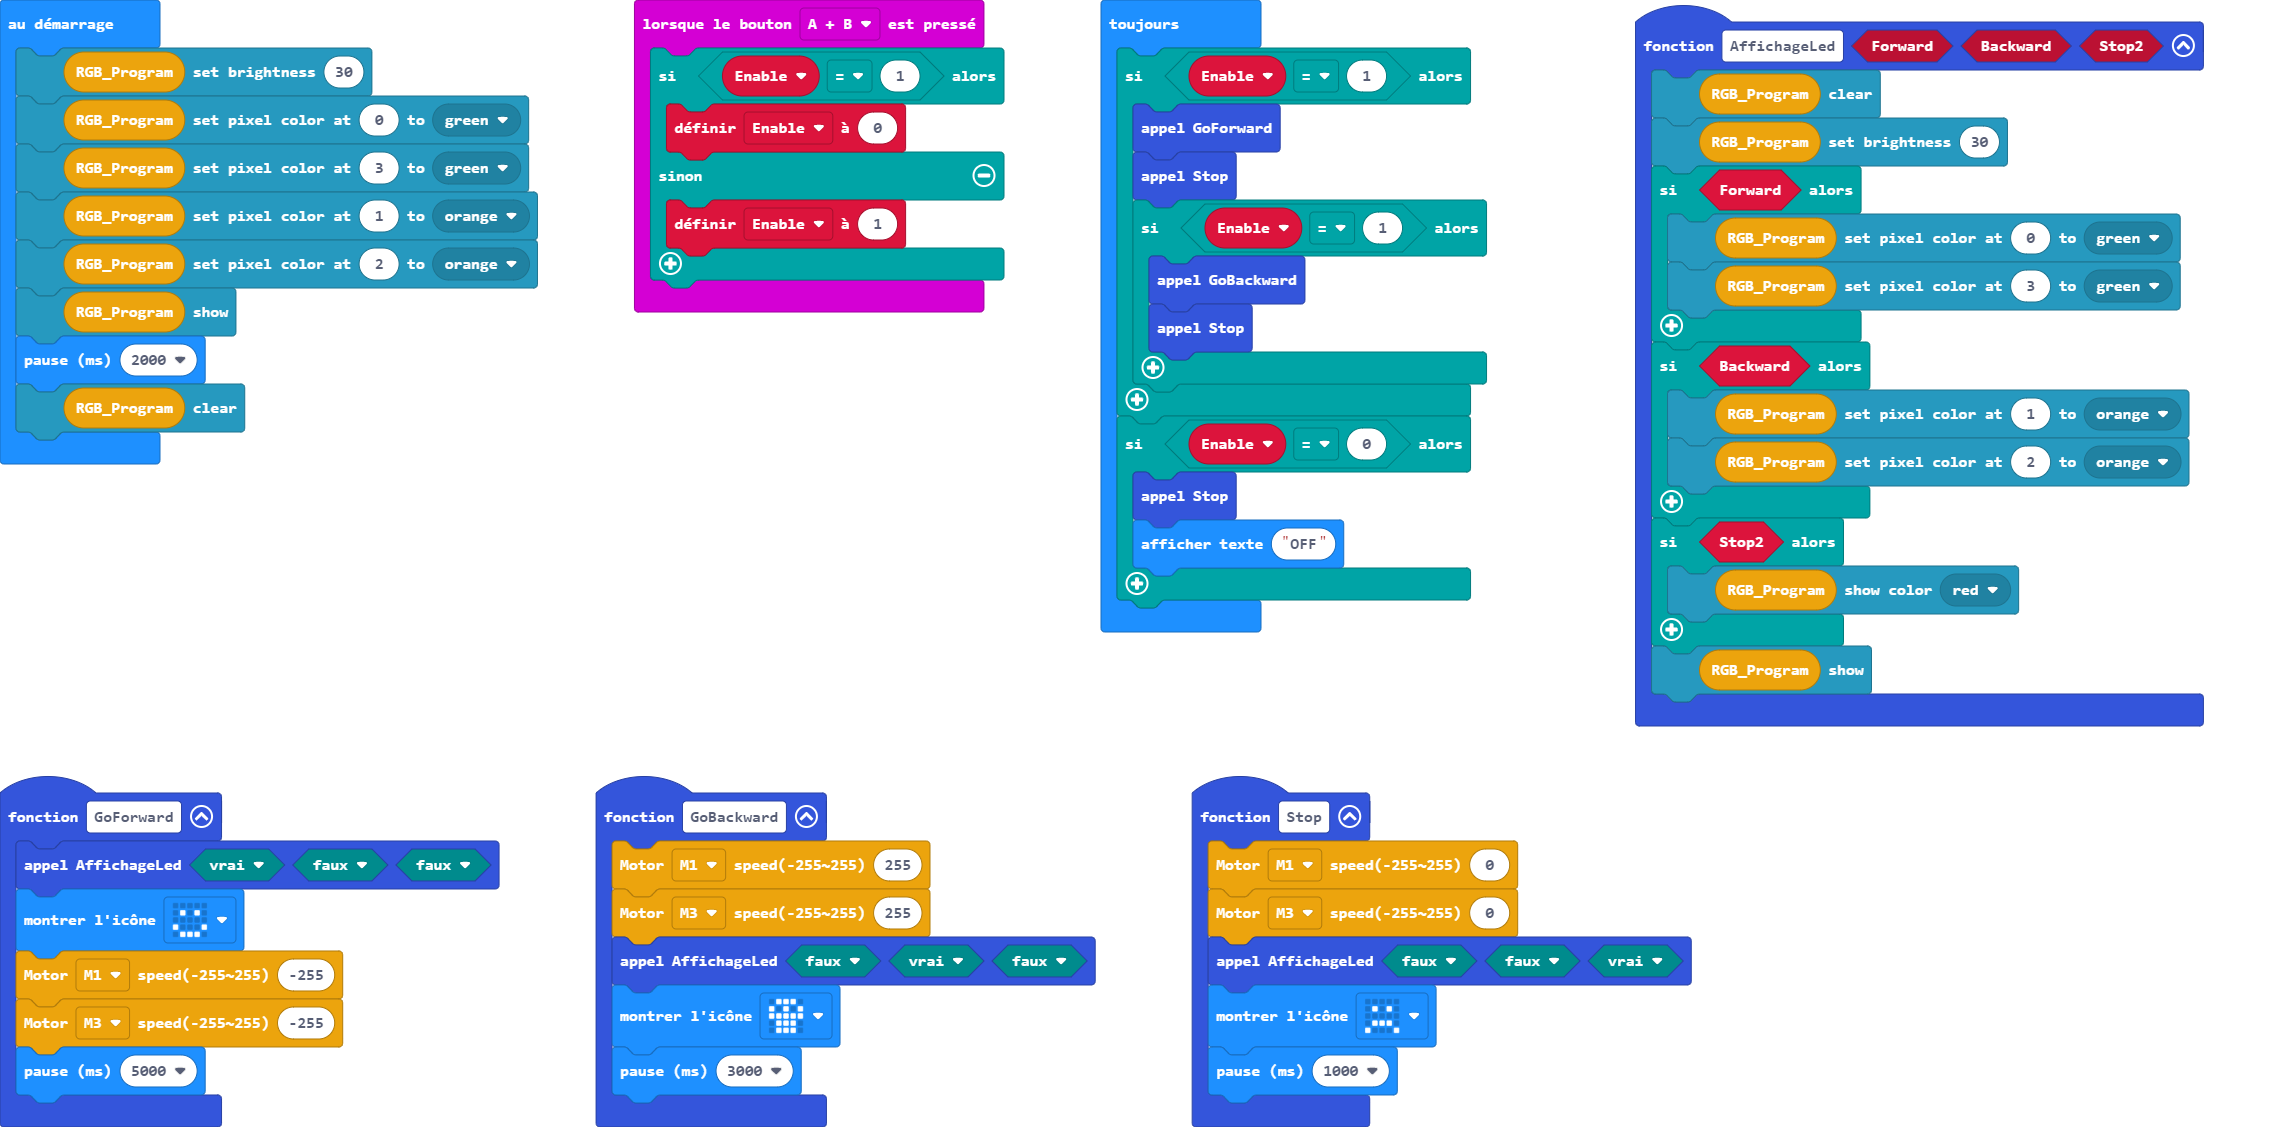
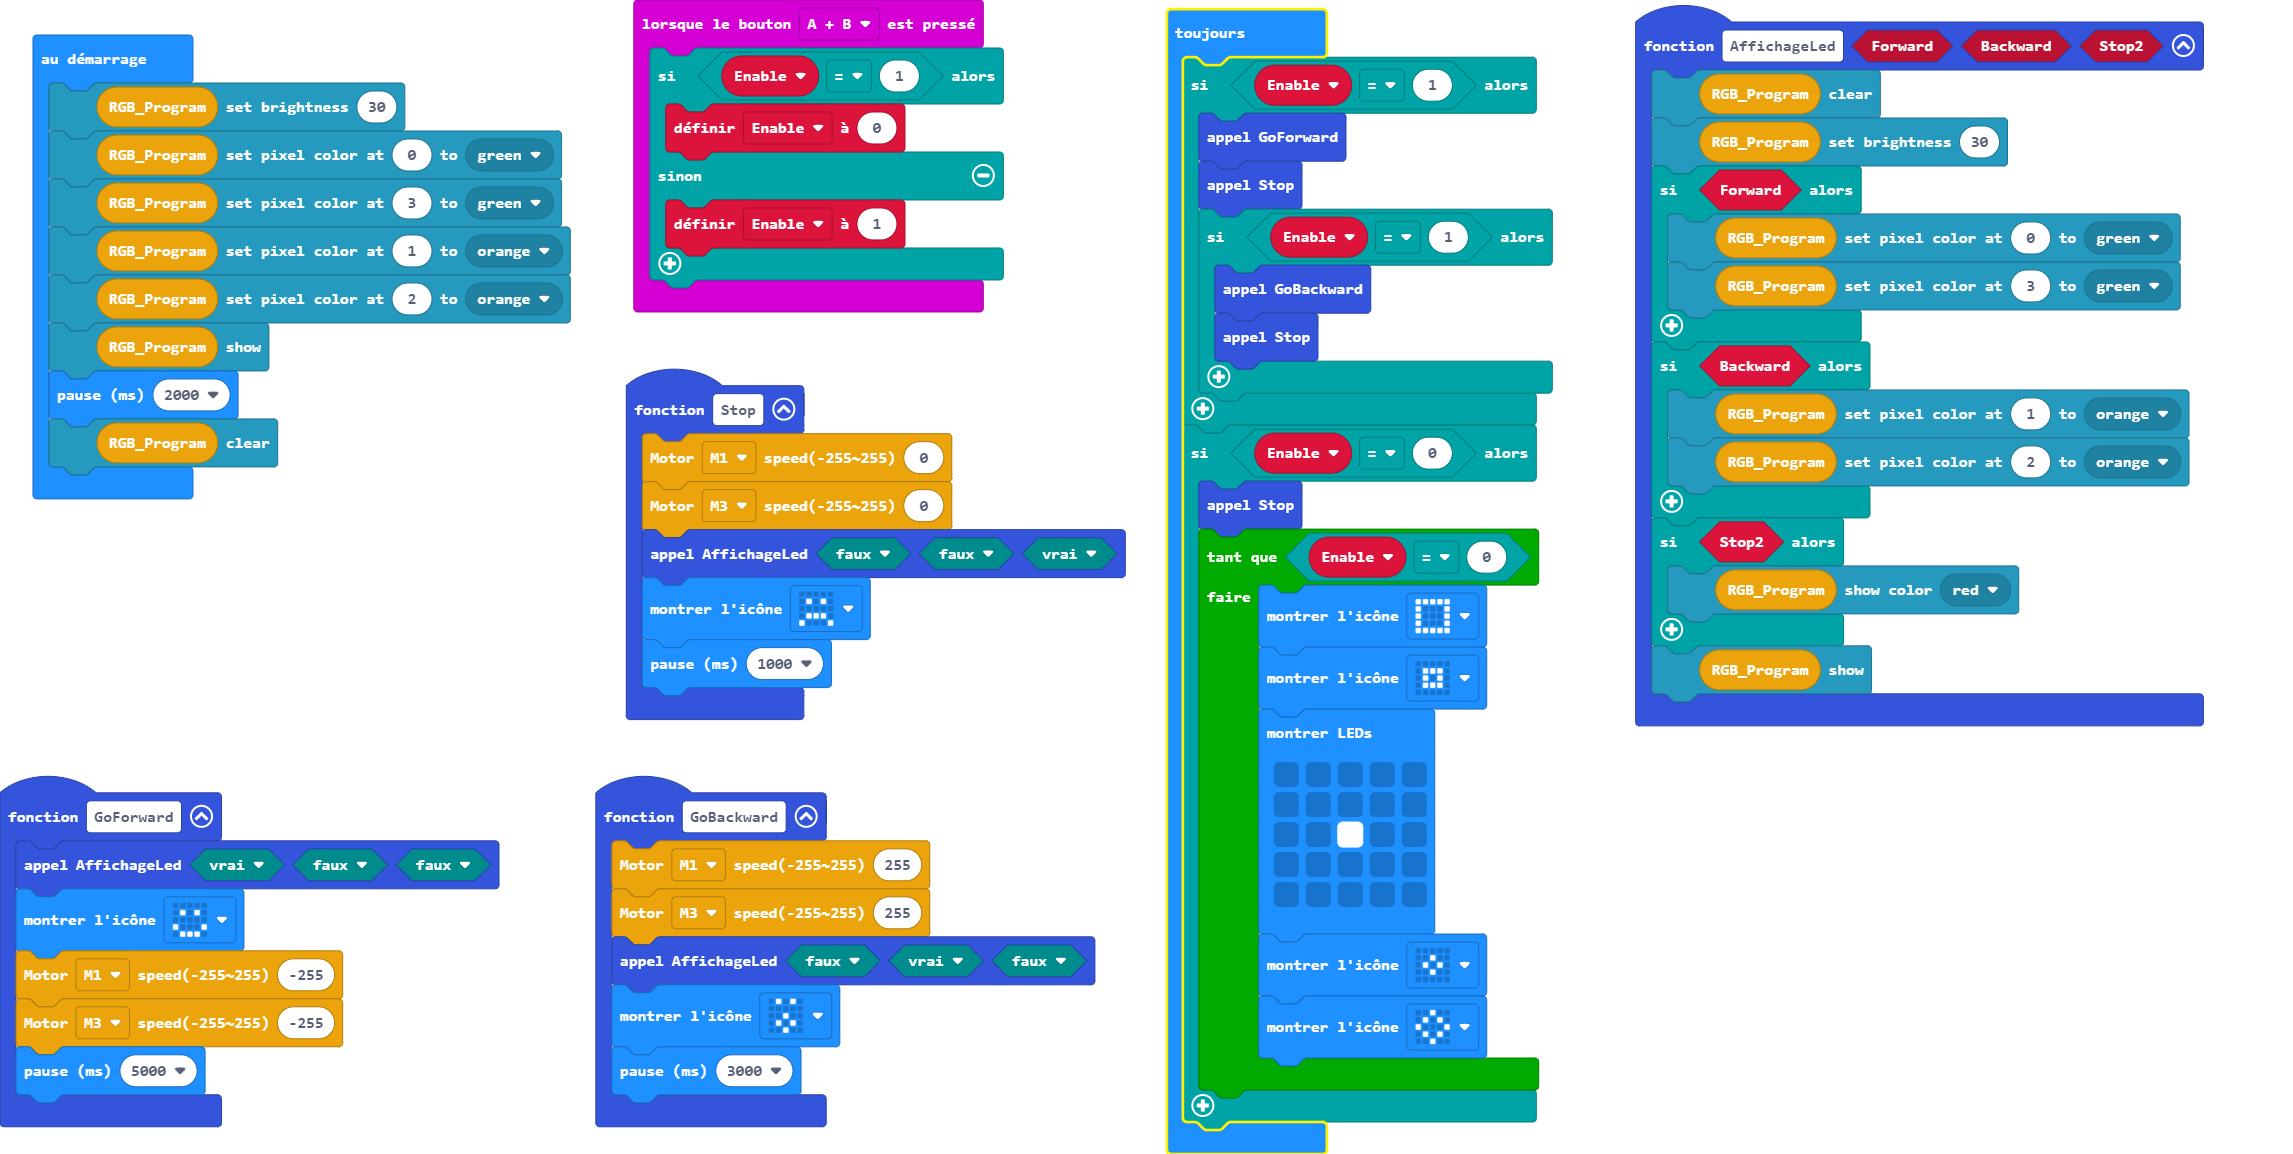
chg affichage en mode attente

diff --git a/main.ts b/main.ts
@@ -32,7 +32,7 @@ function GoBackward () {
     SuperBit.MotorRun(SuperBit.enMotors.M1, 255)
     SuperBit.MotorRun(SuperBit.enMotors.M3, 255)
     AffichageLed(false, true, false)
-    basic.showIcon(IconNames.Skull)
+    basic.showIcon(IconNames.Surprised)
     basic.pause(3000)
 }
 function Stop () {
@@ -62,6 +62,18 @@ basic.forever(function () {
     }
     if (Enable == 0) {
         Stop()
-        basic.showString("OFF")
+        while (Enable == 0) {
+            basic.showIcon(IconNames.Square)
+            basic.showIcon(IconNames.SmallSquare)
+            basic.showLeds(`
+                . . . . .
+                . . . . .
+                . . # . .
+                . . . . .
+                . . . . .
+                `)
+            basic.showIcon(IconNames.SmallDiamond)
+            basic.showIcon(IconNames.Diamond)
+        }
     }
 })
